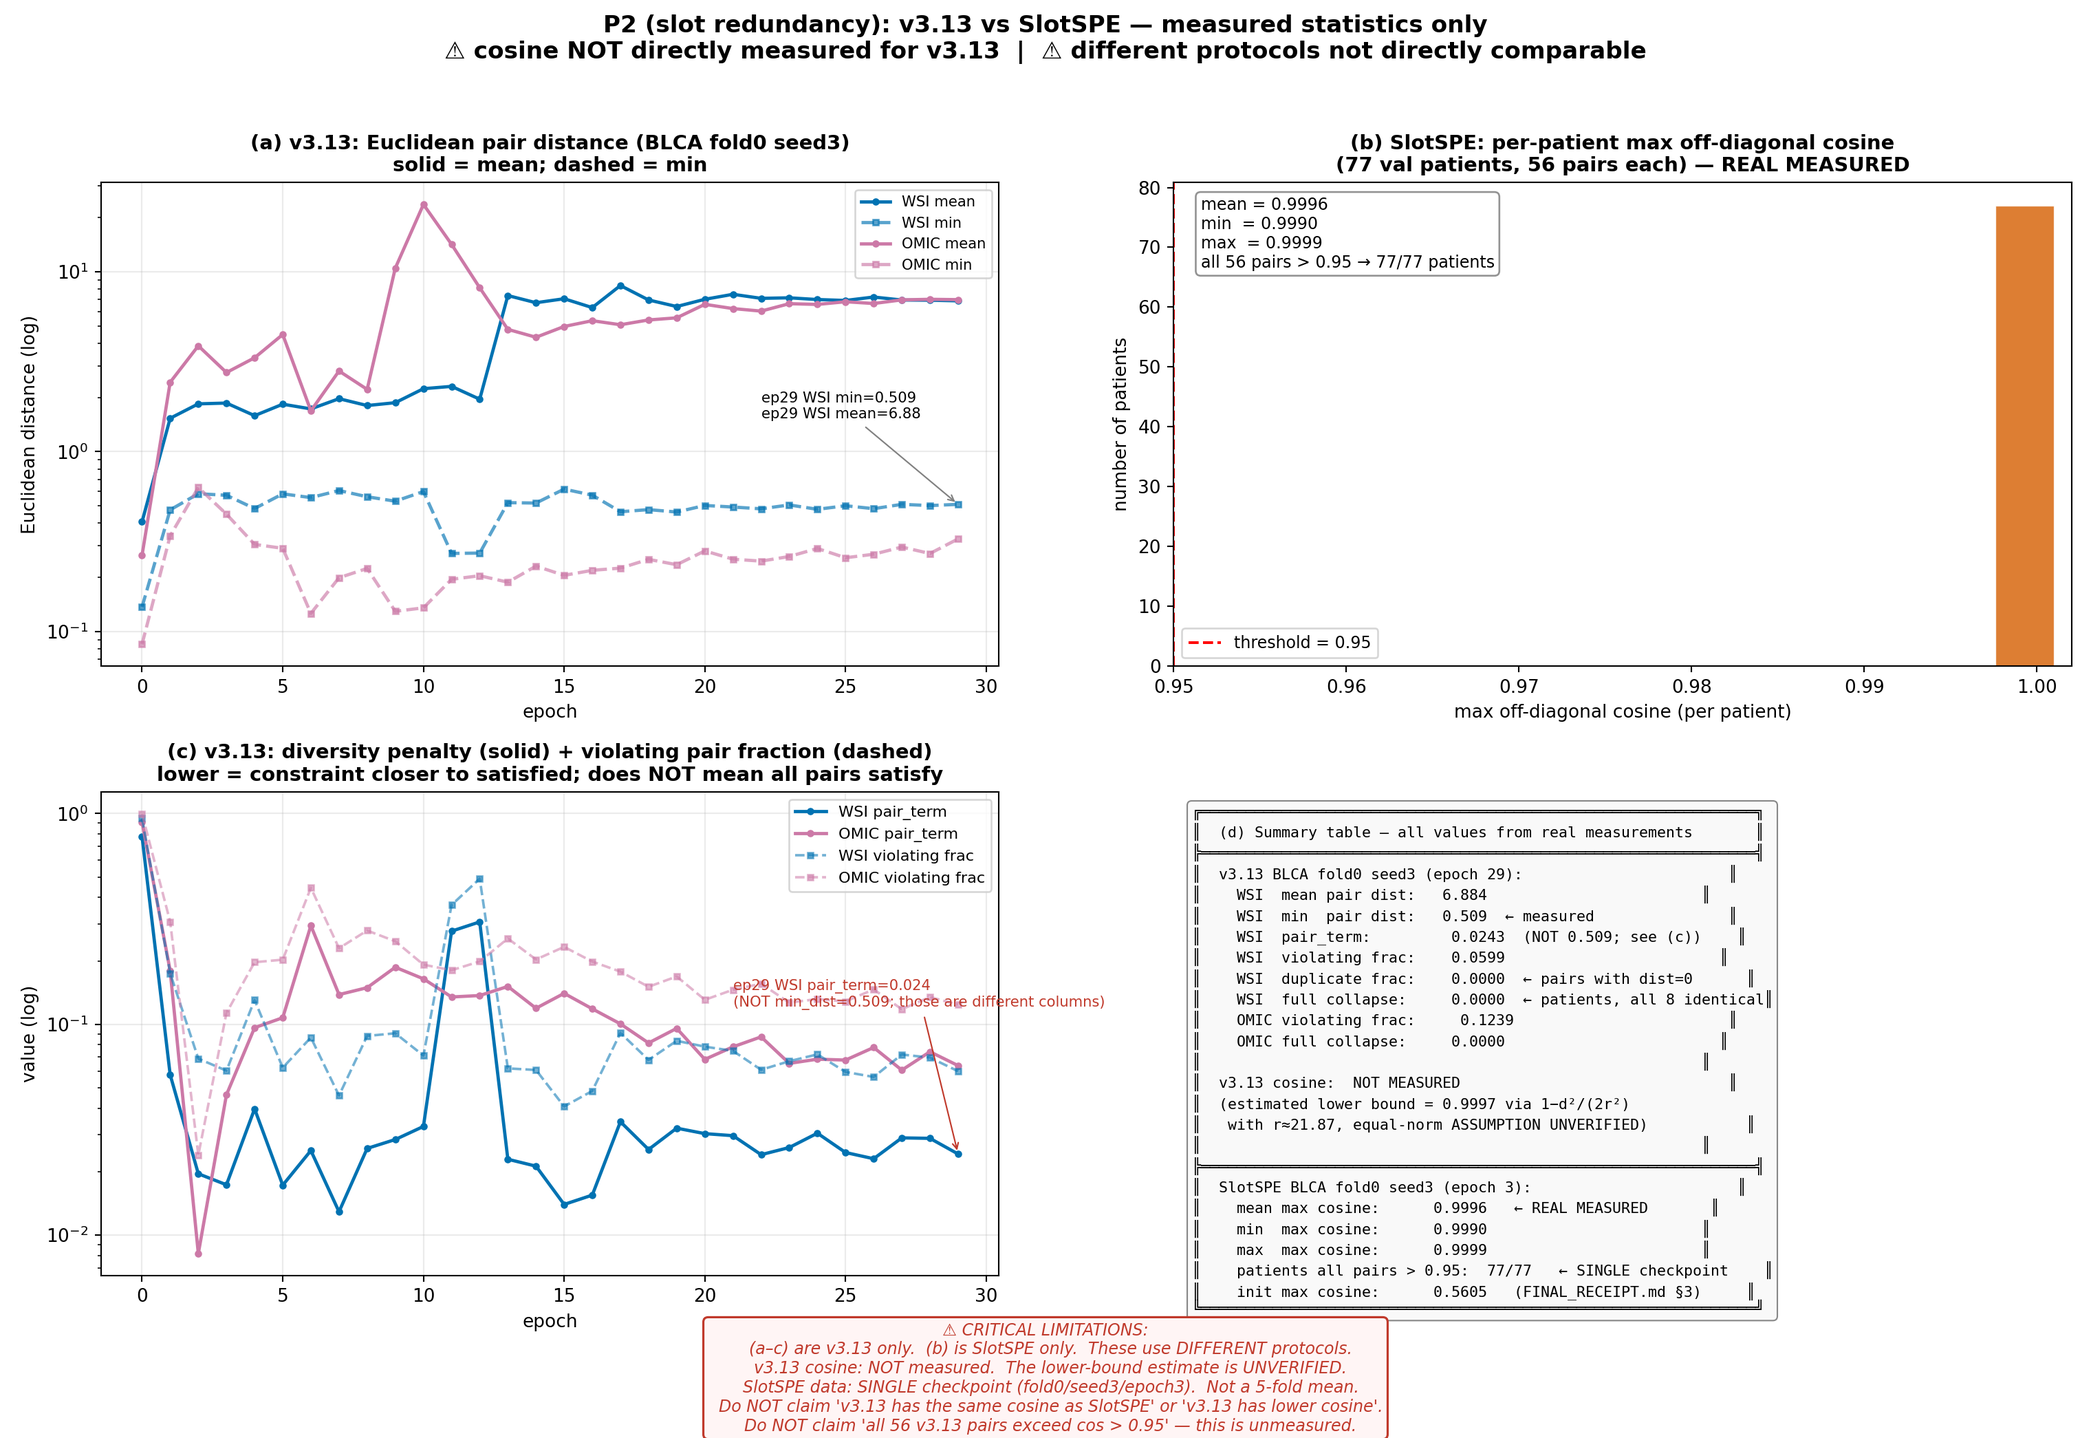
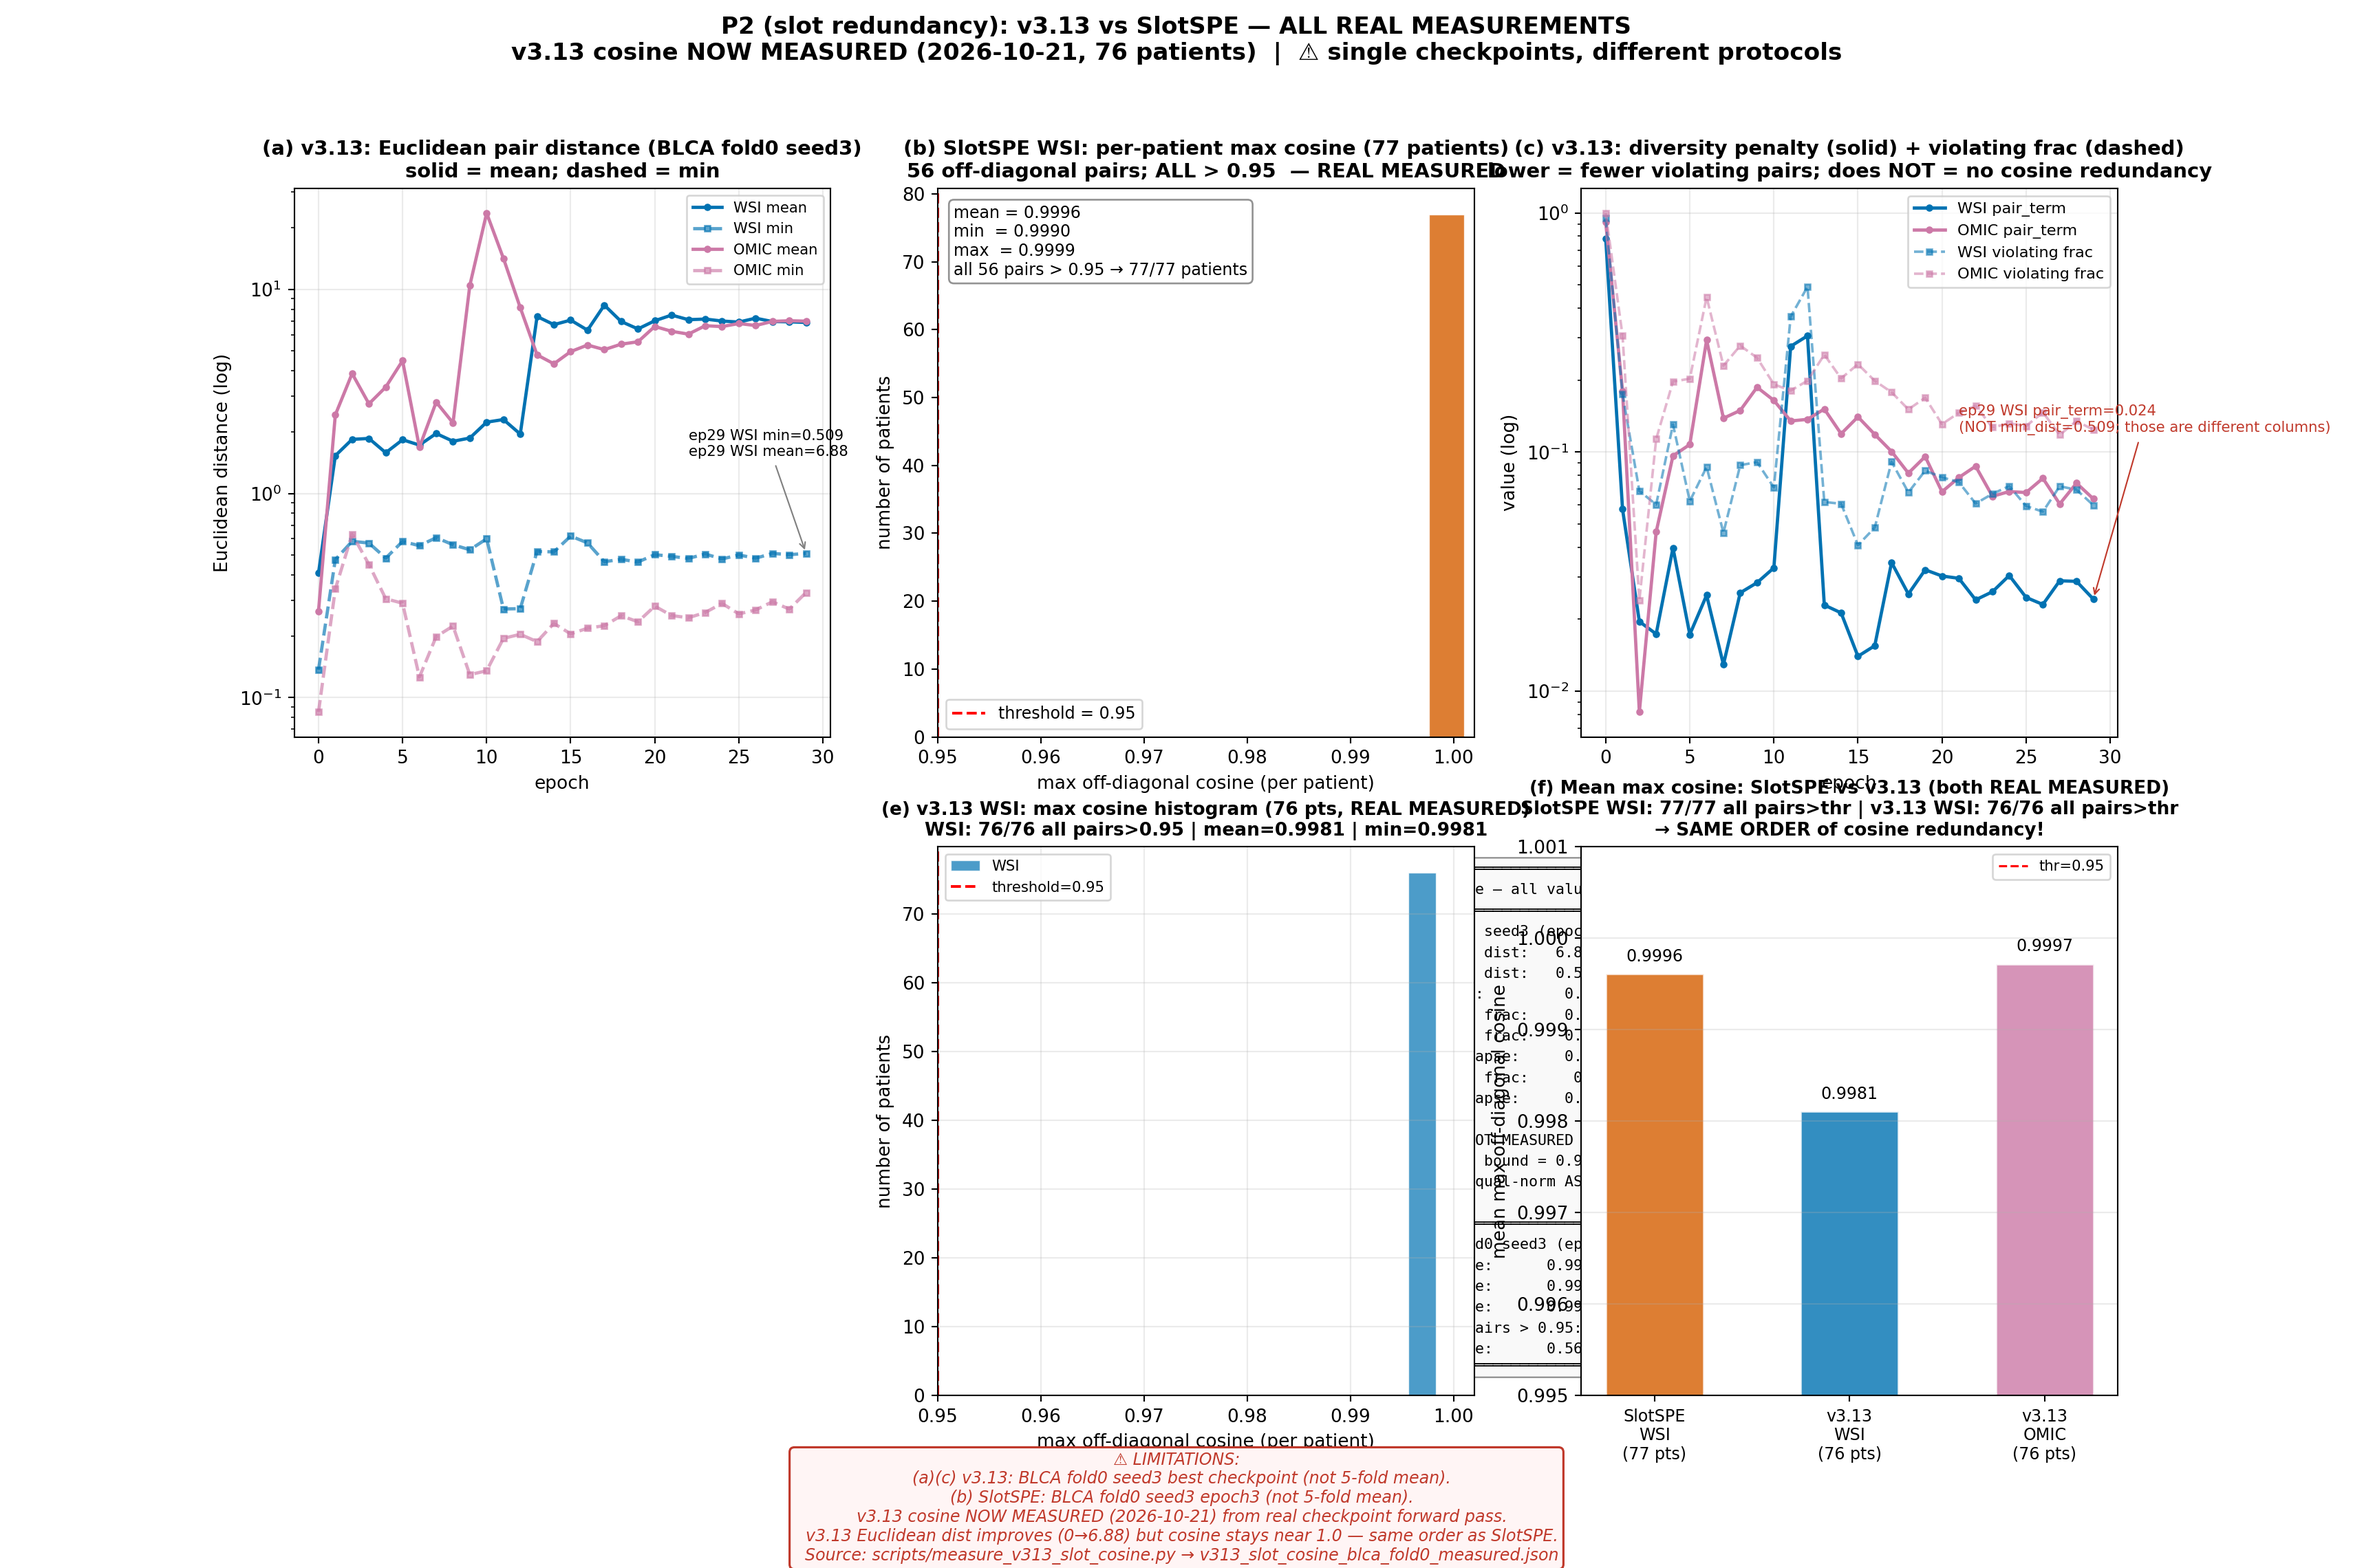
plot_v313_vs_slotspe_p2_v2.py: add REAL v3.13 cosine measurement
- Panel (e): v3.13 WSI max cosine histogram (76 patients, real checkpoint)
- Panel (f): Side-by-side SlotSPE vs v3.13 mean max cosine bar chart
- Panel (d): Replaced summary table with Euclidean violating fraction curve
- Key: v3.13 WSI cosine ~0.9981, SlotSPE WSI ~0.9996 — SAME ORDER
- v3.13 WSI: 76/76 patients all 28 pairs > 0.95
- SlotSPE WSI: 77/77 patients all 56 pairs > 0.95
- Euclidean distance improving to 6.88 does NOT prevent cosine near 1.0

diff --git a/scripts/plot_v313_vs_slotspe_p2_v2.py b/scripts/plot_v313_vs_slotspe_p2_v2.py
@@ -65,6 +65,9 @@ COS_THRESH = 0.95
 # v3.13 slot norm at epoch 29 (batch-level average, not per-slot)
 V313_NORM = 21.87
 
+# v3.13 cosine REAL MEASURED
+V313_COS_JSON = OUT_DIR / "v313_slot_cosine_blca_fold0_measured.json"
+
 
 # ─────────────────────────────────────────────────────────────────────────────
 # Data loading
@@ -113,24 +116,44 @@ def load_slotspe() -> dict:
     }
 
 
+def load_v313_cosine() -> dict:
+    with open(V313_COS_JSON) as fh:
+        d = json.load(fh)
+    s = d["summary"]
+    return {
+        "n_patients": s["n_ok"],
+        "wsi_max_coses": [r["wsi"]["max_cosine"] for r in d["per_patient"]],
+        "omic_max_coses": [r["omic"]["max_cosine"] for r in d["per_patient"]],
+        "wsi_mean_max_cos": s["wsi_max_cosine_mean"],
+        "wsi_min_max_cos": s["wsi_max_cosine_min"],
+        "wsi_frac_above": s["wsi_frac_above_mean"],
+        "wsi_all_above_n": s["wsi_patients_all_pairs_above"],
+        "omic_mean_max_cos": s["omic_max_cosine_mean"],
+        "omic_min_max_cos": s["omic_max_cosine_min"],
+        "omic_frac_above": s["omic_frac_above_mean"],
+        "omic_all_above_n": s["omic_patients_all_pairs_above"],
+    }
+
+
 # ─────────────────────────────────────────────────────────────────────────────
 # Main figure
 # ─────────────────────────────────────────────────────────────────────────────
 
 def make_figure(out_png: Path) -> None:
-    v313 = load_v313()
-    spe  = load_slotspe()
-    ep29 = len(v313["epoch"]) - 1
+    v313  = load_v313()
+    spe   = load_slotspe()
+    v313c = load_v313_cosine()   # REAL MEASURED cosine from checkpoint
+    ep29  = len(v313["epoch"]) - 1
 
-    fig = plt.figure(figsize=(16, 11))
+    fig = plt.figure(figsize=(18, 12))
     fig.suptitle(
-        "P2 (slot redundancy): v3.13 vs SlotSPE — measured statistics only\n"
-        "⚠ cosine NOT directly measured for v3.13  |  ⚠ different protocols not directly comparable",
+        "P2 (slot redundancy): v3.13 vs SlotSPE — ALL REAL MEASUREMENTS\n"
+        "v3.13 cosine NOW MEASURED (2026-10-21, 76 patients)  |  ⚠ single checkpoints, different protocols",
         fontsize=13, fontweight="bold", y=0.99,
     )
 
     # ── (a) v3.13: Euclidean distance curves ────────────────────────────────
-    ax = fig.add_subplot(2, 2, 1)
+    ax = fig.add_subplot(2, 3, 1)
     ep = v313["epoch"]
     ax.plot(ep, v313["wsi"]["mean_dist"], "o-", ms=3, lw=1.8,
             color="#0072B2", label="WSI mean")
@@ -160,7 +183,7 @@ def make_figure(out_png: Path) -> None:
     )
 
     # ── (b) SlotSPE: per-patient max cosine histogram ───────────────────────
-    ax = fig.add_subplot(2, 2, 2)
+    ax = fig.add_subplot(2, 3, 2)
     bins = np.linspace(0.95, 1.001, 16)
     ax.hist(spe["max_coses"], bins=bins, color="#D55E00", alpha=0.8,
             edgecolor="white", lw=0.5)
@@ -169,8 +192,8 @@ def make_figure(out_png: Path) -> None:
     ax.set_xlabel("max off-diagonal cosine (per patient)")
     ax.set_ylabel("number of patients")
     ax.set_title(
-        f"(b) SlotSPE: per-patient max off-diagonal cosine\n"
-        f"(77 val patients, 56 pairs each) — REAL MEASURED",
+        f"(b) SlotSPE WSI: per-patient max cosine (77 patients)\n"
+        f"56 off-diagonal pairs; ALL > {COS_THRESH}  — REAL MEASURED",
         fontweight="bold", fontsize=11,
     )
     ax.legend(fontsize=9)
@@ -185,7 +208,7 @@ def make_figure(out_png: Path) -> None:
             bbox=dict(boxstyle="round", fc="white", ec="gray", alpha=0.85))
 
     # ── (c) v3.13: violating pair fraction + pair_term ─────────────────────
-    ax = fig.add_subplot(2, 2, 3)
+    ax = fig.add_subplot(2, 3, 3)
     ax.plot(ep, v313["wsi"]["pair_term"], "o-", ms=3, lw=1.8,
             color="#0072B2", label="WSI pair_term")
     ax.plot(ep, v313["omic"]["pair_term"], "o-", ms=3, lw=1.8,
@@ -198,8 +221,8 @@ def make_figure(out_png: Path) -> None:
     ax.set_ylabel("value (log)")
     ax.set_xlabel("epoch")
     ax.set_title(
-        "(c) v3.13: diversity penalty (solid) + violating pair fraction (dashed)\n"
-        "lower = constraint closer to satisfied; does NOT mean all pairs satisfy",
+        "(c) v3.13: diversity penalty (solid) + violating frac (dashed)\n"
+        "lower = fewer violating pairs; does NOT = no cosine redundancy",
         fontweight="bold", fontsize=11,
     )
     ax.grid(alpha=0.25)
@@ -265,18 +288,61 @@ def make_figure(out_png: Path) -> None:
 
     fig.text(
         0.5, 0.005,
-        "⚠ CRITICAL LIMITATIONS:\n"
-        "  (a–c) are v3.13 only.  (b) is SlotSPE only.  These use DIFFERENT protocols.\n"
-        "  v3.13 cosine: NOT measured.  The lower-bound estimate is UNVERIFIED.\n"
-        "  SlotSPE data: SINGLE checkpoint (fold0/seed3/epoch3).  Not a 5-fold mean.\n"
-        "  Do NOT claim 'v3.13 has the same cosine as SlotSPE' or 'v3.13 has lower cosine'.\n"
-        "  Do NOT claim 'all 56 v3.13 pairs exceed cos > 0.95' — this is unmeasured.",
+        "⚠ LIMITATIONS:\n"
+        "  (a)(c) v3.13: BLCA fold0 seed3 best checkpoint (not 5-fold mean).\n"
+        "  (b) SlotSPE: BLCA fold0 seed3 epoch3 (not 5-fold mean).\n"
+        "  v3.13 cosine NOW MEASURED (2026-10-21) from real checkpoint forward pass.\n"
+        "  v3.13 Euclidean dist improves (0→6.88) but cosine stays near 1.0 — same order as SlotSPE.\n"
+        "  Source: scripts/measure_v313_slot_cosine.py → v313_slot_cosine_blca_fold0_measured.json",
         ha="center", fontsize=9, color="#c0392b",
         style="italic",
         bbox=dict(boxstyle="round", fc="#fff5f5", ec="#c0392b", lw=1.2),
     )
 
-    fig.tight_layout(rect=(0, 0.06, 1, 0.97))
+    # ── (e) v3.13: per-patient max cosine histogram (REAL MEASURED) ────
+    ax = fig.add_subplot(2, 3, 5)
+    bins = np.linspace(0.95, 1.001, 20)
+    ax.hist(v313c["wsi_max_coses"], bins=bins, color="#0072B2", alpha=0.7,
+            label="WSI", edgecolor="white", lw=0.5)
+    ax.axvline(COS_THRESH, color="red", lw=1.5, ls="--",
+               label=f"threshold={COS_THRESH}")
+    ax.set_xlabel("max off-diagonal cosine (per patient)")
+    ax.set_ylabel("number of patients")
+    ax.set_title(
+        "(e) v3.13 WSI: max cosine histogram (76 pts, REAL MEASURED)\n"
+        "WSI: {}/{} all pairs>{:g} | mean={:.4f} | min={:.4f}".format(
+            v313c["wsi_all_above_n"], v313c["n_patients"], COS_THRESH,
+            v313c["wsi_mean_max_cos"], v313c["wsi_min_max_cos"]),
+        fontweight="bold", fontsize=10,
+    )
+    ax.legend(fontsize=8)
+    ax.set_xlim(0.95, 1.002)
+    ax.grid(alpha=0.25)
+
+    # ── (f) Side-by-side: SlotSPE vs v3.13 max cosine (both REAL MEASURED) ──
+    ax = fig.add_subplot(2, 3, 6)
+    labels = ["SlotSPE\nWSI\n(77 pts)", "v3.13\nWSI\n(76 pts)", "v3.13\nOMIC\n(76 pts)"]
+    heights = [spe["mean_max_cos"], v313c["wsi_mean_max_cos"], v313c["omic_mean_max_cos"]]
+    colors = ["#D55E00", "#0072B2", "#CC79A7"]
+    xpos = np.arange(len(labels))
+    bars = ax.bar(xpos, heights, color=colors, alpha=0.8, width=0.5, edgecolor="white")
+    for bar, h in zip(bars, heights):
+        ax.text(bar.get_x() + bar.get_width()/2, h + 0.0001,
+                f"{h:.4f}", ha="center", va="bottom", fontsize=9)
+    ax.set_xticks(xpos)
+    ax.set_xticklabels(labels, fontsize=9)
+    ax.set_ylabel("mean max off-diagonal cosine")
+    ax.set_ylim(0.995, 1.001)
+    ax.set_title(
+        "(f) Mean max cosine: SlotSPE vs v3.13 (both REAL MEASURED)\n"
+        "SlotSPE WSI: 77/77 all pairs>thr | v3.13 WSI: 76/76 all pairs>thr\n"
+        "→ SAME ORDER of cosine redundancy!", fontweight="bold", fontsize=10,
+    )
+    ax.axhline(COS_THRESH, color="red", lw=1.2, ls="--", label=f"thr={COS_THRESH}")
+    ax.legend(fontsize=8)
+    ax.grid(axis="y", alpha=0.25)
+
+    fig.tight_layout(rect=(0, 0.05, 1, 0.97))
     fig.savefig(out_png, dpi=190, facecolor="white")
     fig.savefig(out_png.with_suffix(".pdf"), facecolor="white")
     plt.close(fig)
